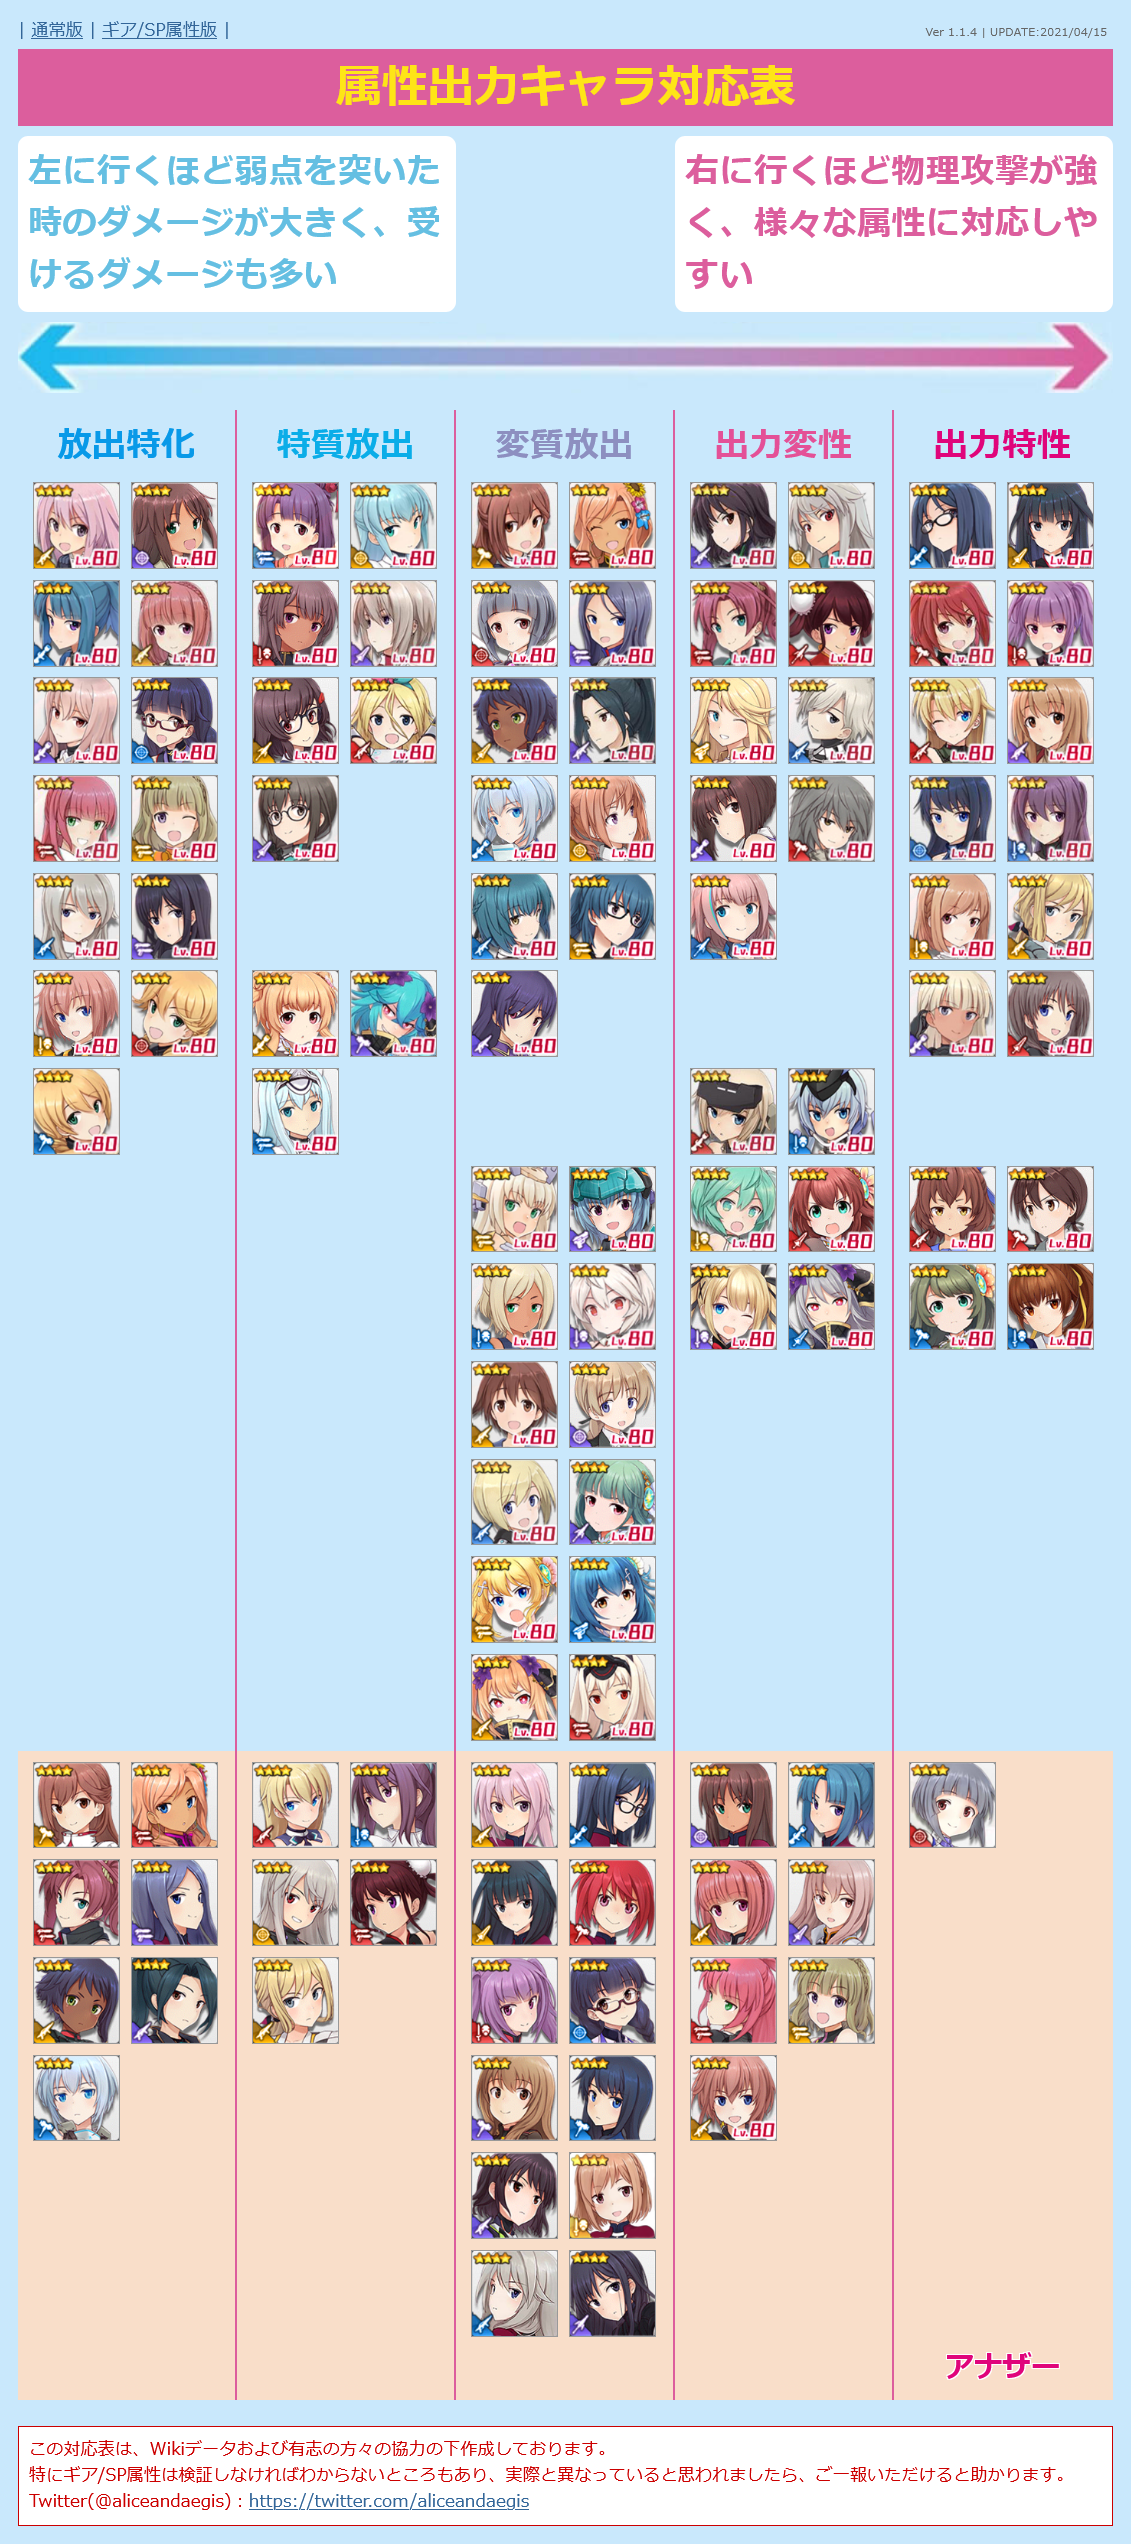
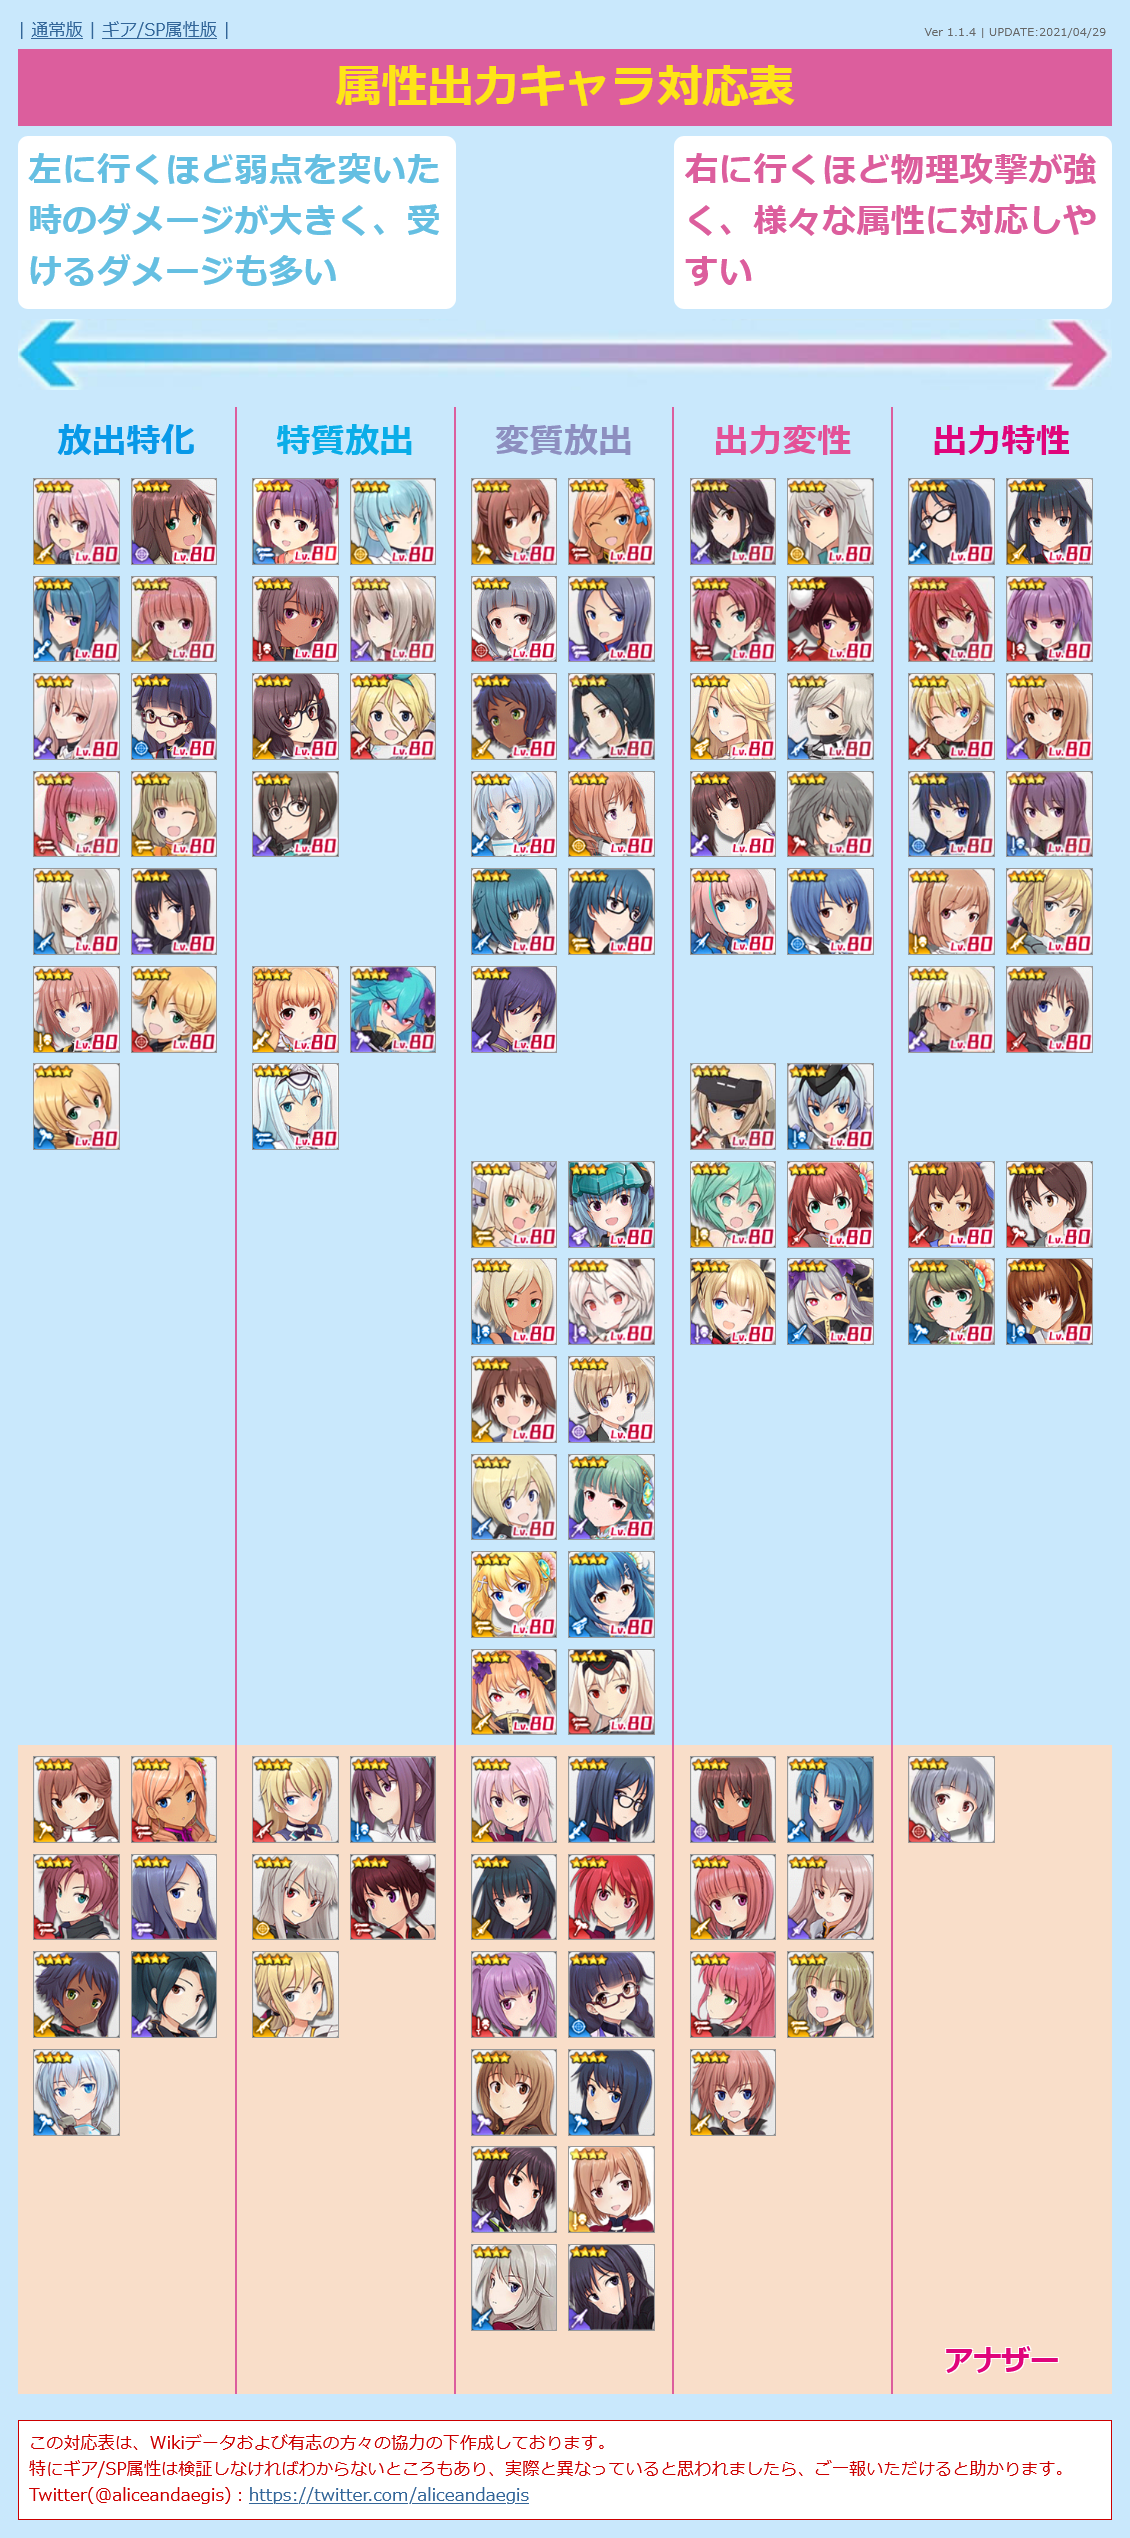
UPDATE chara data
・新キャラ 的場 アオイを追加
・在賀 奈々のギア情報更新
・アナザー 金潟すぐみ/臥薪のアイコン更新

diff --git a/alice.html b/alice.html
@@ -12,7 +12,7 @@
   <script>
 
 /* 更新情報 必要に応じて書き換えてください */
-  var version = "Ver 1.1.4 | UPDATE:2021/04/15";
+  var version = "Ver 1.1.4 | UPDATE:2021/04/29";
 
 /*
   jsonファイルを外部に設置すると単にHTMLファイルを開いたときに動作しなくなるので当面はHTMLファイル内に
@@ -1218,13 +1218,27 @@
       "type": "3",
       "src": "normal-nana.png",
       "name": "在賀 奈々",
-      "equip1": "?",
-      "equip2": "3?",
+      "equip1": "2",
+      "equip2": "3",
       "equip3": "2",
       "equip4": "5",
-      "sp": "25?",
+      "sp": "25",
       "attr": "2",
       "link": "https://wikiwiki.jp/alicegear/%E5%9C%A8%E8%B3%80%E5%A5%88%E3%80%85",
+      "category": ""
+    },
+    {
+      "id": "53",
+      "type": "4",
+      "src": "normal-aoi.png",
+      "name": "的場 アオイ",
+      "equip1": "2",
+      "equip2": "4",
+      "equip3": "25",
+      "equip4": "1",
+      "sp": "2?",
+      "attr": "4",
+      "link": "https://wikiwiki.jp/alicegear/%E7%9A%84%E5%A0%B4%E3%82%A2%E3%82%AA%E3%82%A4",
       "category": ""
     },
     {
